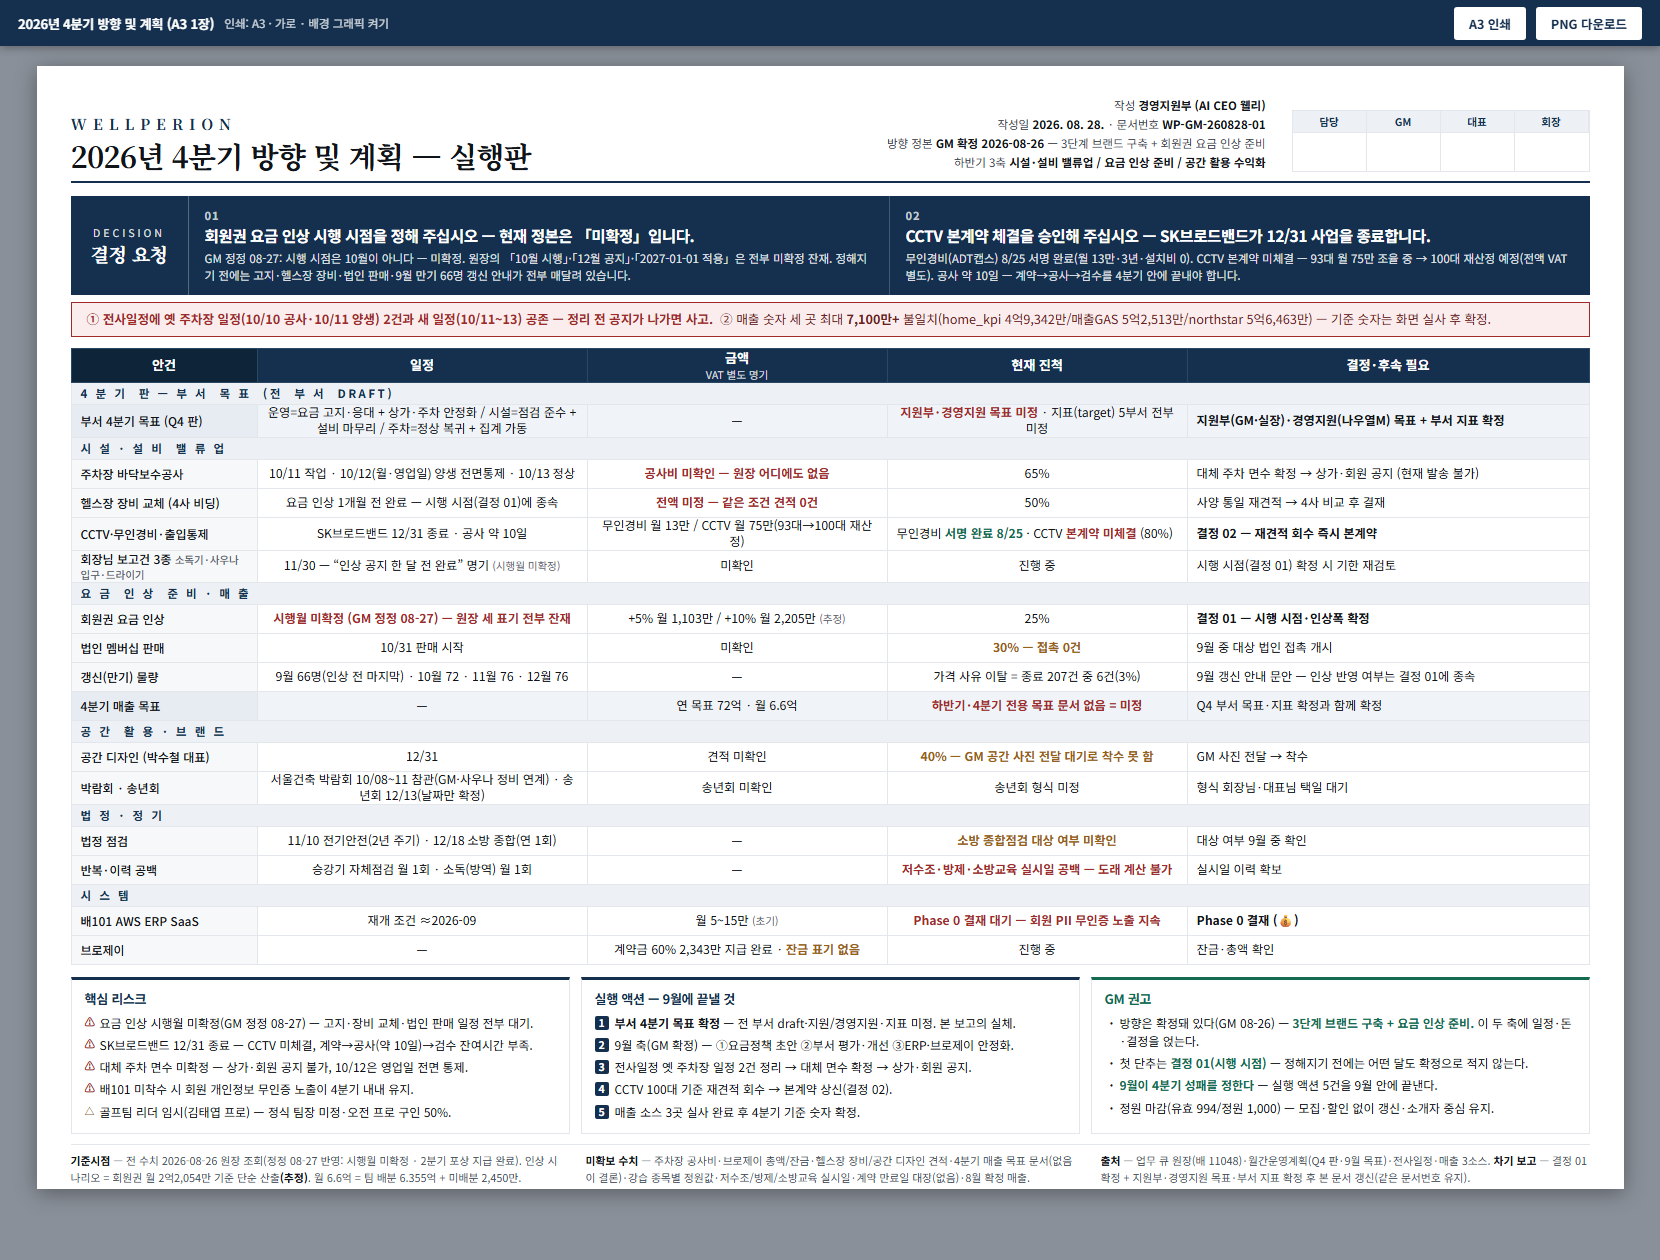
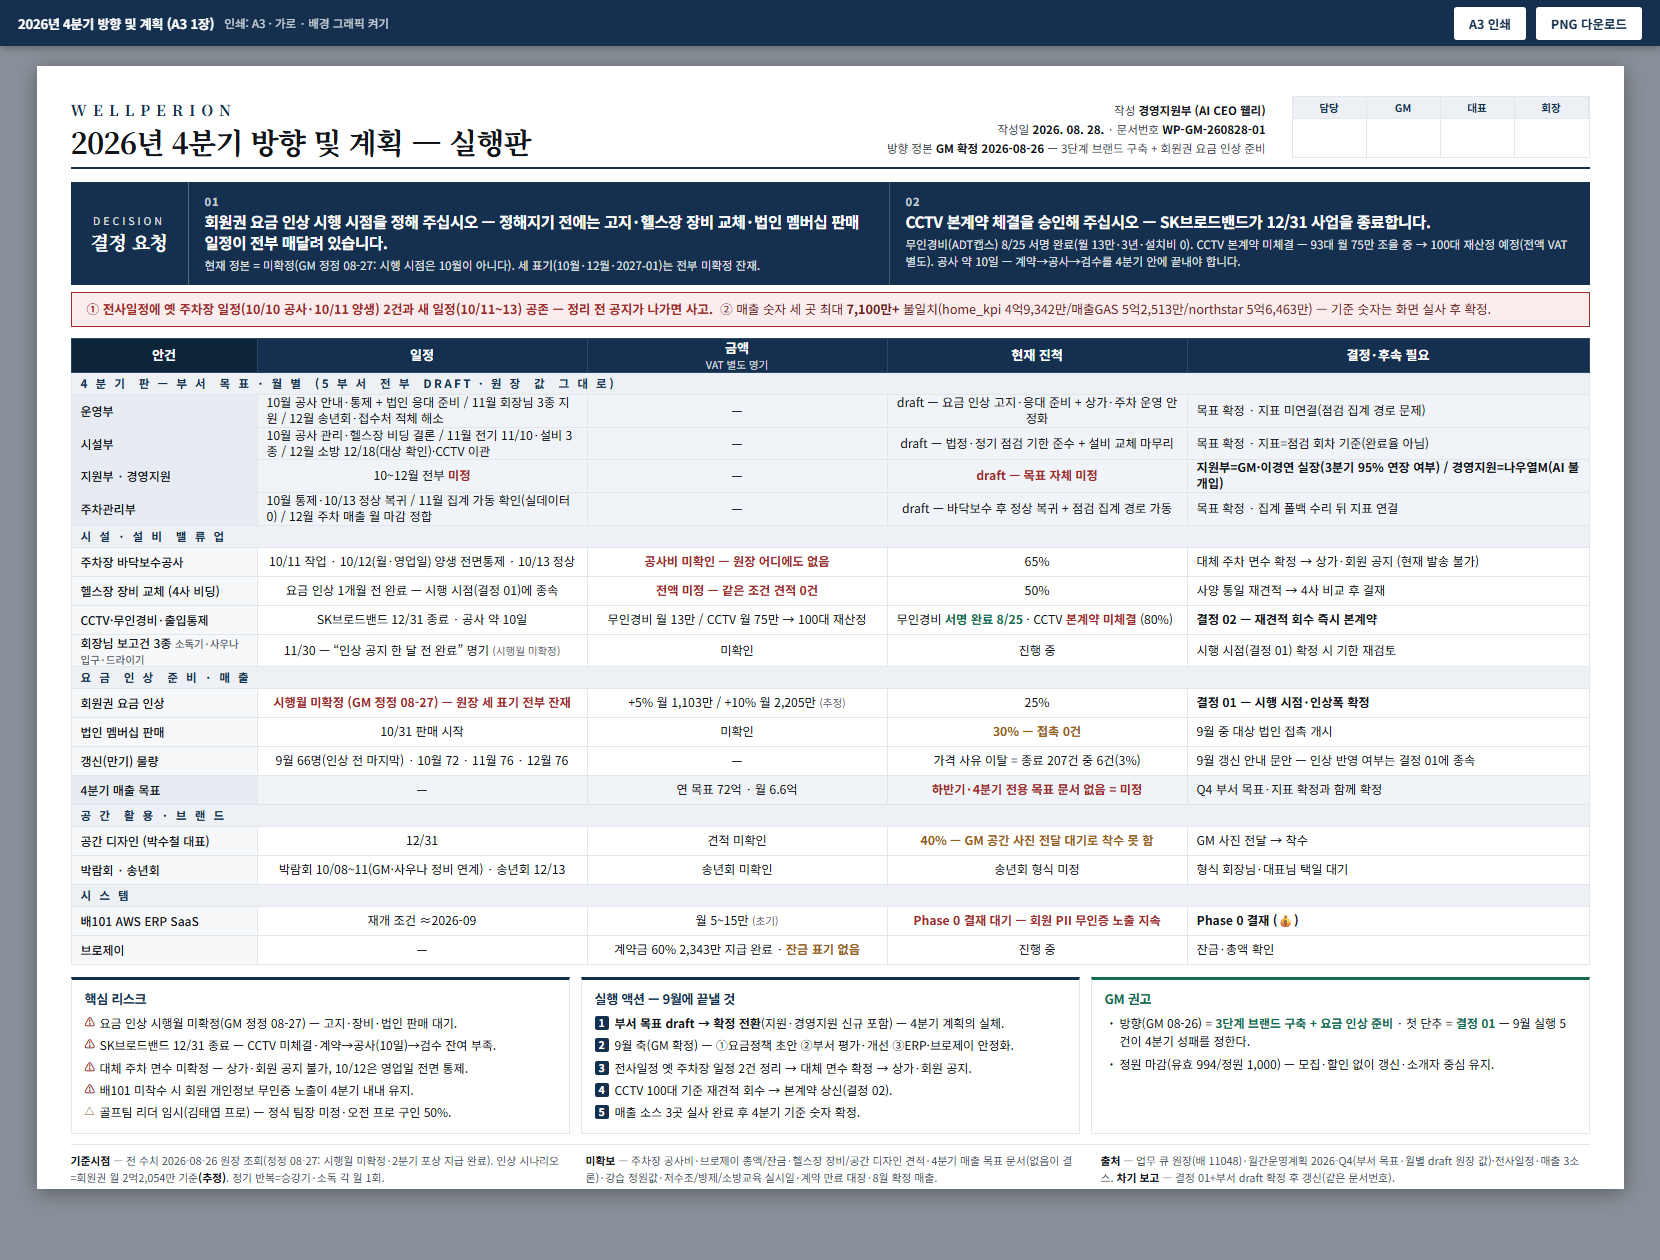
docs(ceo): 4분기 A3 정정 — Q4 판 실재·부서 draft 반영 (배11048)

diff --git a/3. 웰페리온 가이드/reports/260828_4분기_방향및계획_A3.html b/3. 웰페리온 가이드/reports/260828_4분기_방향및계획_A3.html
@@ -130,8 +130,7 @@
     <div class="meta">
       작성 <b>경영지원부 (AI CEO 웰리)</b><br>
       작성일 <b>2026. 08. 28.</b> · 문서번호 <b>WP-GM-260828-01</b><br>
-      방향 정본 <b>GM 확정 2026-08-26</b> — 3단계 브랜드 구축 + 회원권 요금 인상 준비<br>
-      하반기 3축 <b>시설·설비 밸류업 / 요금 인상 준비 / 공간 활용 수익화</b>
+      방향 정본 <b>GM 확정 2026-08-26</b> — 3단계 브랜드 구축 + 회원권 요금 인상 준비
     </div>
     <div class="sign">
       <div><div class="t">담당</div><div class="b"></div></div>
@@ -147,8 +146,8 @@
     <div class="items">
       <div class="it">
         <div class="n">01</div>
-        <div class="q">회원권 요금 인상 시행 시점을 정해 주십시오 — 현재 정본은 「미확정」입니다.</div>
-        <div class="d">GM 정정 08-27: 시행 시점은 10월이 아니다 — 미확정. 원장의 「10월 시행」·「12월 공지」·「2027-01-01 적용」은 전부 미확정 잔재. 정해지기 전에는 고지·헬스장 장비·법인 판매·9월 만기 66명 갱신 안내가 전부 매달려 있습니다.</div>
+        <div class="q">회원권 요금 인상 시행 시점을 정해 주십시오 — 정해지기 전에는 고지·헬스장 장비 교체·법인 멤버십 판매 일정이 전부 매달려 있습니다.</div>
+        <div class="d">현재 정본 = 미확정(GM 정정 08-27: 시행 시점은 10월이 아니다). 세 표기(10월·12월·2027-01)는 전부 미확정 잔재.</div>
       </div>
       <div class="it">
         <div class="n">02</div>
@@ -178,12 +177,15 @@
       </tr>
     </thead>
     <tbody>
-      <tr class="grp"><td colspan="5">4 분 기 &nbsp;판 — 부 서 &nbsp;목 표 &nbsp;(전 &nbsp;부 서 &nbsp;DRAFT)</td></tr>
-      <tr class="sum"><td class="k">부서 4분기 목표 (Q4 판)</td><td class="ctr">운영=요금 고지·응대 + 상가·주차 안정화 / 시설=점검 준수 + 설비 마무리 / 주차=정상 복귀 + 집계 가동</td><td class="ctr">—</td><td class="ctr"><span class="bad">지원부·경영지원 목표 미정</span> · 지표(target) 5부서 전부 미정</td><td class="strong">지원부(GM·실장)·경영지원(나우열M) 목표 + 부서 지표 확정</td></tr>
+      <tr class="grp"><td colspan="5">4 분 기 &nbsp;판 — 부 서 &nbsp;목 표 · 월 별 &nbsp;(5 부 서 &nbsp;전 부 &nbsp;DRAFT · 원 장 &nbsp;값 &nbsp;그 대 로)</td></tr>
+      <tr class="sum"><td class="k">운영부</td><td>10월 공사 안내·통제 + 법인 응대 준비 / 11월 회장님 3종 지원 / 12월 송년회·접수처 적체 해소</td><td class="ctr">—</td><td class="ctr">draft — 요금 인상 고지·응대 준비 + 상가·주차 운영 안정화</td><td>목표 확정 · 지표 미연결(점검 집계 경로 문제)</td></tr>
+      <tr class="sum"><td class="k">시설부</td><td>10월 공사 관리·헬스장 비딩 결론 / 11월 전기 11/10·설비 3종 / 12월 소방 12/18(대상 확인)·CCTV 이관</td><td class="ctr">—</td><td class="ctr">draft — 법정·정기 점검 기한 준수 + 설비 교체 마무리</td><td>목표 확정 · 지표=점검 회차 기준(완료율 아님)</td></tr>
+      <tr class="sum"><td class="k">지원부 · 경영지원</td><td class="ctr">10~12월 전부 <span class="bad">미정</span></td><td class="ctr">—</td><td class="ctr bad">draft — 목표 자체 미정</td><td class="strong">지원부=GM·이경연 실장(3분기 95% 연장 여부) / 경영지원=나우열M(AI 불개입)</td></tr>
+      <tr class="sum"><td class="k">주차관리부</td><td>10월 통제·10/13 정상 복귀 / 11월 집계 가동 확인(실데이터 0) / 12월 주차 매출 월 마감 정합</td><td class="ctr">—</td><td class="ctr">draft — 바닥보수 후 정상 복귀 + 점검 집계 경로 가동</td><td>목표 확정 · 집계 폴백 수리 뒤 지표 연결</td></tr>
       <tr class="grp"><td colspan="5">시 설 · 설 비 &nbsp;밸 류 업</td></tr>
       <tr><td class="k">주차장 바닥보수공사</td><td class="ctr">10/11 작업 · 10/12(월·영업일) 양생 전면통제 · 10/13 정상</td><td class="ctr bad">공사비 미확인 — 원장 어디에도 없음</td><td class="ctr">65%</td><td>대체 주차 면수 확정 → 상가·회원 공지 (현재 발송 불가)</td></tr>
       <tr><td class="k">헬스장 장비 교체 (4사 비딩)</td><td class="ctr">요금 인상 1개월 전 완료 — 시행 시점(결정 01)에 종속</td><td class="ctr bad">전액 미정 — 같은 조건 견적 0건</td><td class="ctr">50%</td><td>사양 통일 재견적 → 4사 비교 후 결재</td></tr>
-      <tr><td class="k">CCTV·무인경비·출입통제</td><td class="ctr">SK브로드밴드 12/31 종료 · 공사 약 10일</td><td class="ctr">무인경비 월 13만 / CCTV 월 75만(93대→100대 재산정)</td><td>무인경비 <span class="good">서명 완료 8/25</span> · CCTV <span class="bad">본계약 미체결</span> (80%)</td><td class="strong">결정 02 — 재견적 회수 즉시 본계약</td></tr>
+      <tr><td class="k">CCTV·무인경비·출입통제</td><td class="ctr">SK브로드밴드 12/31 종료 · 공사 약 10일</td><td class="ctr">무인경비 월 13만 / CCTV 월 75만 → 100대 재산정</td><td>무인경비 <span class="good">서명 완료 8/25</span> · CCTV <span class="bad">본계약 미체결</span> (80%)</td><td class="strong">결정 02 — 재견적 회수 즉시 본계약</td></tr>
       <tr><td class="k">회장님 보고건 3종 <span class="est">소독기·사우나 입구·드라이기</span></td><td class="ctr">11/30 — “인상 공지 한 달 전 완료” 명기 <span class="est">(시행월 미확정)</span></td><td class="ctr">미확인</td><td class="ctr">진행 중</td><td>시행 시점(결정 01) 확정 시 기한 재검토</td></tr>
 
       <tr class="grp"><td colspan="5">요 금 &nbsp;인 상 &nbsp;준 비 · 매 출</td></tr>
@@ -194,11 +196,7 @@
 
       <tr class="grp"><td colspan="5">공 간 &nbsp;활 용 · 브 랜 드</td></tr>
       <tr><td class="k">공간 디자인 (박수철 대표)</td><td class="ctr">12/31</td><td class="ctr">견적 미확인</td><td class="ctr warn">40% — GM 공간 사진 전달 대기로 착수 못 함</td><td>GM 사진 전달 → 착수</td></tr>
-      <tr><td class="k">박람회 · 송년회</td><td class="ctr">서울건축 박람회 10/08~11 참관(GM·사우나 정비 연계) · 송년회 12/13(날짜만 확정)</td><td class="ctr">송년회 미확인</td><td class="ctr">송년회 형식 미정</td><td>형식 회장님·대표님 택일 대기</td></tr>
-
-      <tr class="grp"><td colspan="5">법 정 · 정 기</td></tr>
-      <tr><td class="k">법정 점검</td><td class="ctr">11/10 전기안전(2년 주기) · 12/18 소방 종합(연 1회)</td><td class="ctr">—</td><td class="ctr warn">소방 종합점검 대상 여부 미확인</td><td>대상 여부 9월 중 확인</td></tr>
-      <tr><td class="k">반복·이력 공백</td><td class="ctr">승강기 자체점검 월 1회 · 소독(방역) 월 1회</td><td class="ctr">—</td><td class="ctr bad">저수조·방제·소방교육 실시일 공백 — 도래 계산 불가</td><td>실시일 이력 확보</td></tr>
+      <tr><td class="k">박람회 · 송년회</td><td class="ctr">박람회 10/08~11(GM·사우나 정비 연계) · 송년회 12/13</td><td class="ctr">송년회 미확인</td><td class="ctr">송년회 형식 미정</td><td>형식 회장님·대표님 택일 대기</td></tr>
 
       <tr class="grp"><td colspan="5">시 스 템</td></tr>
       <tr><td class="k">배101 AWS ERP SaaS</td><td class="ctr">재개 조건 ≈2026-09</td><td class="ctr">월 5~15만 <span class="est">(초기)</span></td><td class="ctr bad">Phase 0 결재 대기 — 회원 PII 무인증 노출 지속</td><td class="strong">Phase 0 결재 (💰)</td></tr>
@@ -212,8 +210,8 @@
     <div class="box">
       <h3>핵심 리스크</h3>
       <ul>
-        <li class="r1">요금 인상 시행월 미확정(GM 정정 08-27) — 고지·장비 교체·법인 판매 일정 전부 대기.</li>
-        <li class="r1">SK브로드밴드 12/31 종료 — CCTV 미체결, 계약→공사(약 10일)→검수 잔여시간 부족.</li>
+        <li class="r1">요금 인상 시행월 미확정(GM 정정 08-27) — 고지·장비·법인 판매 대기.</li>
+        <li class="r1">SK브로드밴드 12/31 종료 — CCTV 미체결·계약→공사(10일)→검수 잔여 부족.</li>
         <li class="r1">대체 주차 면수 미확정 — 상가·회원 공지 불가, 10/12은 영업일 전면 통제.</li>
         <li class="r1">배101 미착수 시 회원 개인정보 무인증 노출이 4분기 내내 유지.</li>
         <li class="r2">골프팀 리더 임시(김태엽 프로) — 정식 팀장 미정·오전 프로 구인 50%.</li>
@@ -222,7 +220,7 @@
     <div class="box">
       <h3>실행 액션 — 9월에 끝낼 것</h3>
       <ul class="ord">
-        <li class="n"><b>부서 4분기 목표 확정</b> — 전 부서 draft·지원/경영지원·지표 미정. 본 보고의 실체.</li>
+        <li class="n"><b>부서 목표 draft → 확정 전환</b>(지원·경영지원 신규 포함) — 4분기 계획의 실체.</li>
         <li class="n">9월 축(GM 확정) — ①요금정책 초안 ②부서 평가·개선 ③ERP·브로제이 안정화.</li>
         <li class="n">전사일정 옛 주차장 일정 2건 정리 → 대체 면수 확정 → 상가·회원 공지.</li>
         <li class="n">CCTV 100대 기준 재견적 회수 → 본계약 상신(결정 02).</li>
@@ -232,9 +230,7 @@
     <div class="box rec">
       <h3>GM 권고</h3>
       <ul>
-        <li>방향은 확정돼 있다(GM 08-26) — <b>3단계 브랜드 구축 + 요금 인상 준비.</b> 이 두 축에 일정·돈·결정을 얹는다.</li>
-        <li>첫 단추는 <b>결정 01(시행 시점)</b> — 정해지기 전에는 어떤 달도 확정으로 적지 않는다.</li>
-        <li><b>9월이 4분기 성패를 정한다</b> — 실행 액션 5건을 9월 안에 끝낸다.</li>
+        <li>방향(GM 08-26) = <b>3단계 브랜드 구축 + 요금 인상 준비</b> · 첫 단추 = <b>결정 01</b> — 9월 실행 5건이 4분기 성패를 정한다.</li>
         <li>정원 마감(유효 994/정원 1,000) — 모집·할인 없이 갱신·소개자 중심 유지.</li>
       </ul>
     </div>
@@ -242,9 +238,9 @@
 
   <!-- ⑤ 각주 -->
   <div class="foot">
-    <div><b>기준시점</b> — 전 수치 2026-08-26 원장 조회(정정 08-27 반영: 시행월 미확정 · 2분기 포상 지급 완료). 인상 시나리오 = 회원권 월 2억2,054만 기준 단순 산출<b>(추정)</b>. 월 6.6억 = 팀 배분 6.355억 + 미배분 2,450만.</div>
-    <div><b>미확보 수치</b> — 주차장 공사비·브로제이 총액/잔금·헬스장 장비/공간 디자인 견적·4분기 매출 목표 문서(없음이 결론)·강습 종목별 정원값·저수조/방제/소방교육 실시일·계약 만료일 대장(없음)·8월 확정 매출.</div>
-    <div><b>출처</b> — 업무 큐 원장(배 11048)·월간운영계획(Q4 판·9월 목표)·전사일정·매출 3소스. <b>차기 보고</b> — 결정 01 확정 + 지원부·경영지원 목표·부서 지표 확정 후 본 문서 갱신(같은 문서번호 유지).</div>
+    <div><b>기준시점</b> — 전 수치 2026-08-26 원장 조회(정정 08-27: 시행월 미확정·2분기 포상 지급 완료). 인상 시나리오=회원권 월 2억2,054만 기준<b>(추정)</b>. 정기 반복=승강기·소독 각 월 1회.</div>
+    <div><b>미확보</b> — 주차장 공사비·브로제이 총액/잔금·헬스장 장비/공간 디자인 견적·4분기 매출 목표 문서(없음이 결론)·강습 정원값·저수조/방제/소방교육 실시일·계약 만료 대장·8월 확정 매출.</div>
+    <div><b>출처</b> — 업무 큐 원장(배 11048)·월간운영계획 2026-Q4(부서 목표·월별 draft 원장 값)·전사일정·매출 3소스. <b>차기 보고</b> — 결정 01+부서 draft 확정 후 갱신(같은 문서번호).</div>
   </div>
 
 </div>
